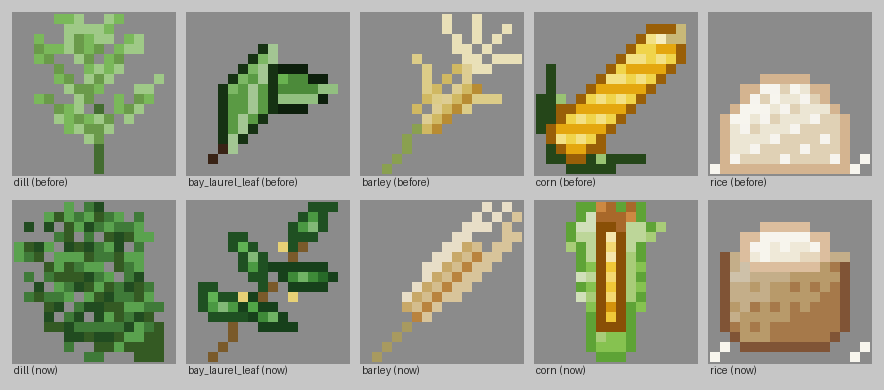
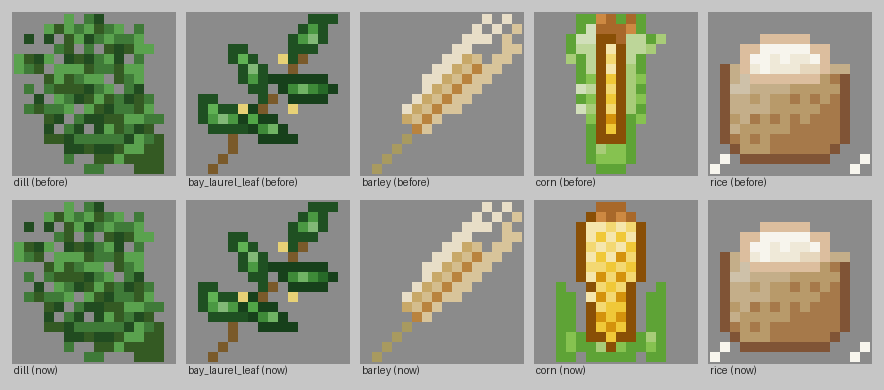
Make the corn mostly yellow
A broad yellow cob with the husk only at its sides and base, and silk on top.

Claude-Session: https://claude.ai/code/session_015LnbBras9DEmUQEKydUTyp

diff --git a/.workflow/art/item_sprites.py b/.workflow/art/item_sprites.py
@@ -1655,15 +1655,16 @@ def corn_hand():
 
     def kernels(x, y):
         return 1 if (x + y) % 2 == 0 else -1 if y % 2 == 1 else 0
-    # An upright cob wrapped in pale husk leaves, the kernels showing down the middle, silk at the top.
-    s.capsule(husk, [(7.5, 3.2), (7.5, 14.0)], (4.2, 2.4))
-    s.capsule(kernel, [(7.5, 3.6), (7.5, 11.6)], (1.8, 1.4), texture=kernels)
-    s.pixels_at(husk[SHADOW], [(5, 6), (5, 8), (5, 10), (10, 6), (10, 8), (10, 10)])
-    s.pixels_at(husk[HIGHLIGHT], [(4, 7), (4, 9)])
+    # Husk leaves peeled back from the base and hugging the sides, behind a broad yellow cob.
+    s.capsule(husk, [(3.4, 14.6), (2.6, 8.4)], (1.4, 0.6))
+    s.capsule(husk, [(11.6, 14.6), (12.4, 8.4)], (1.4, 0.6))
+    s.capsule(husk, [(7.5, 15.0), (7.5, 12.0)], (2.2, 1.6))
+    s.capsule(kernel, [(7.5, 3.4), (7.5, 11.8)], (3.3, 2.7), texture=kernels)
+    s.pixels_at(kernel[HIGHLIGHT], [(5, 5), (5, 7), (5, 9)])
+    # Silk at the top.
     silk = ramp("#a8682a")
-    s.pixels_at(silk[BASE], [(6, 1), (7, 0), (8, 1), (9, 0), (7, 1), (8, 2)])
-    s.pixels_at(silk[LIGHT], [(6, 0), (9, 1)])
-    s.pixels_at(husk[BASE], [(11, 3), (12, 2), (3, 4)])
+    s.pixels_at(silk[BASE], [(6, 0), (7, 1), (8, 0), (9, 1), (7, 0)])
+    s.pixels_at(silk[LIGHT], [(8, 1), (6, 1)])
     return s
 
 
